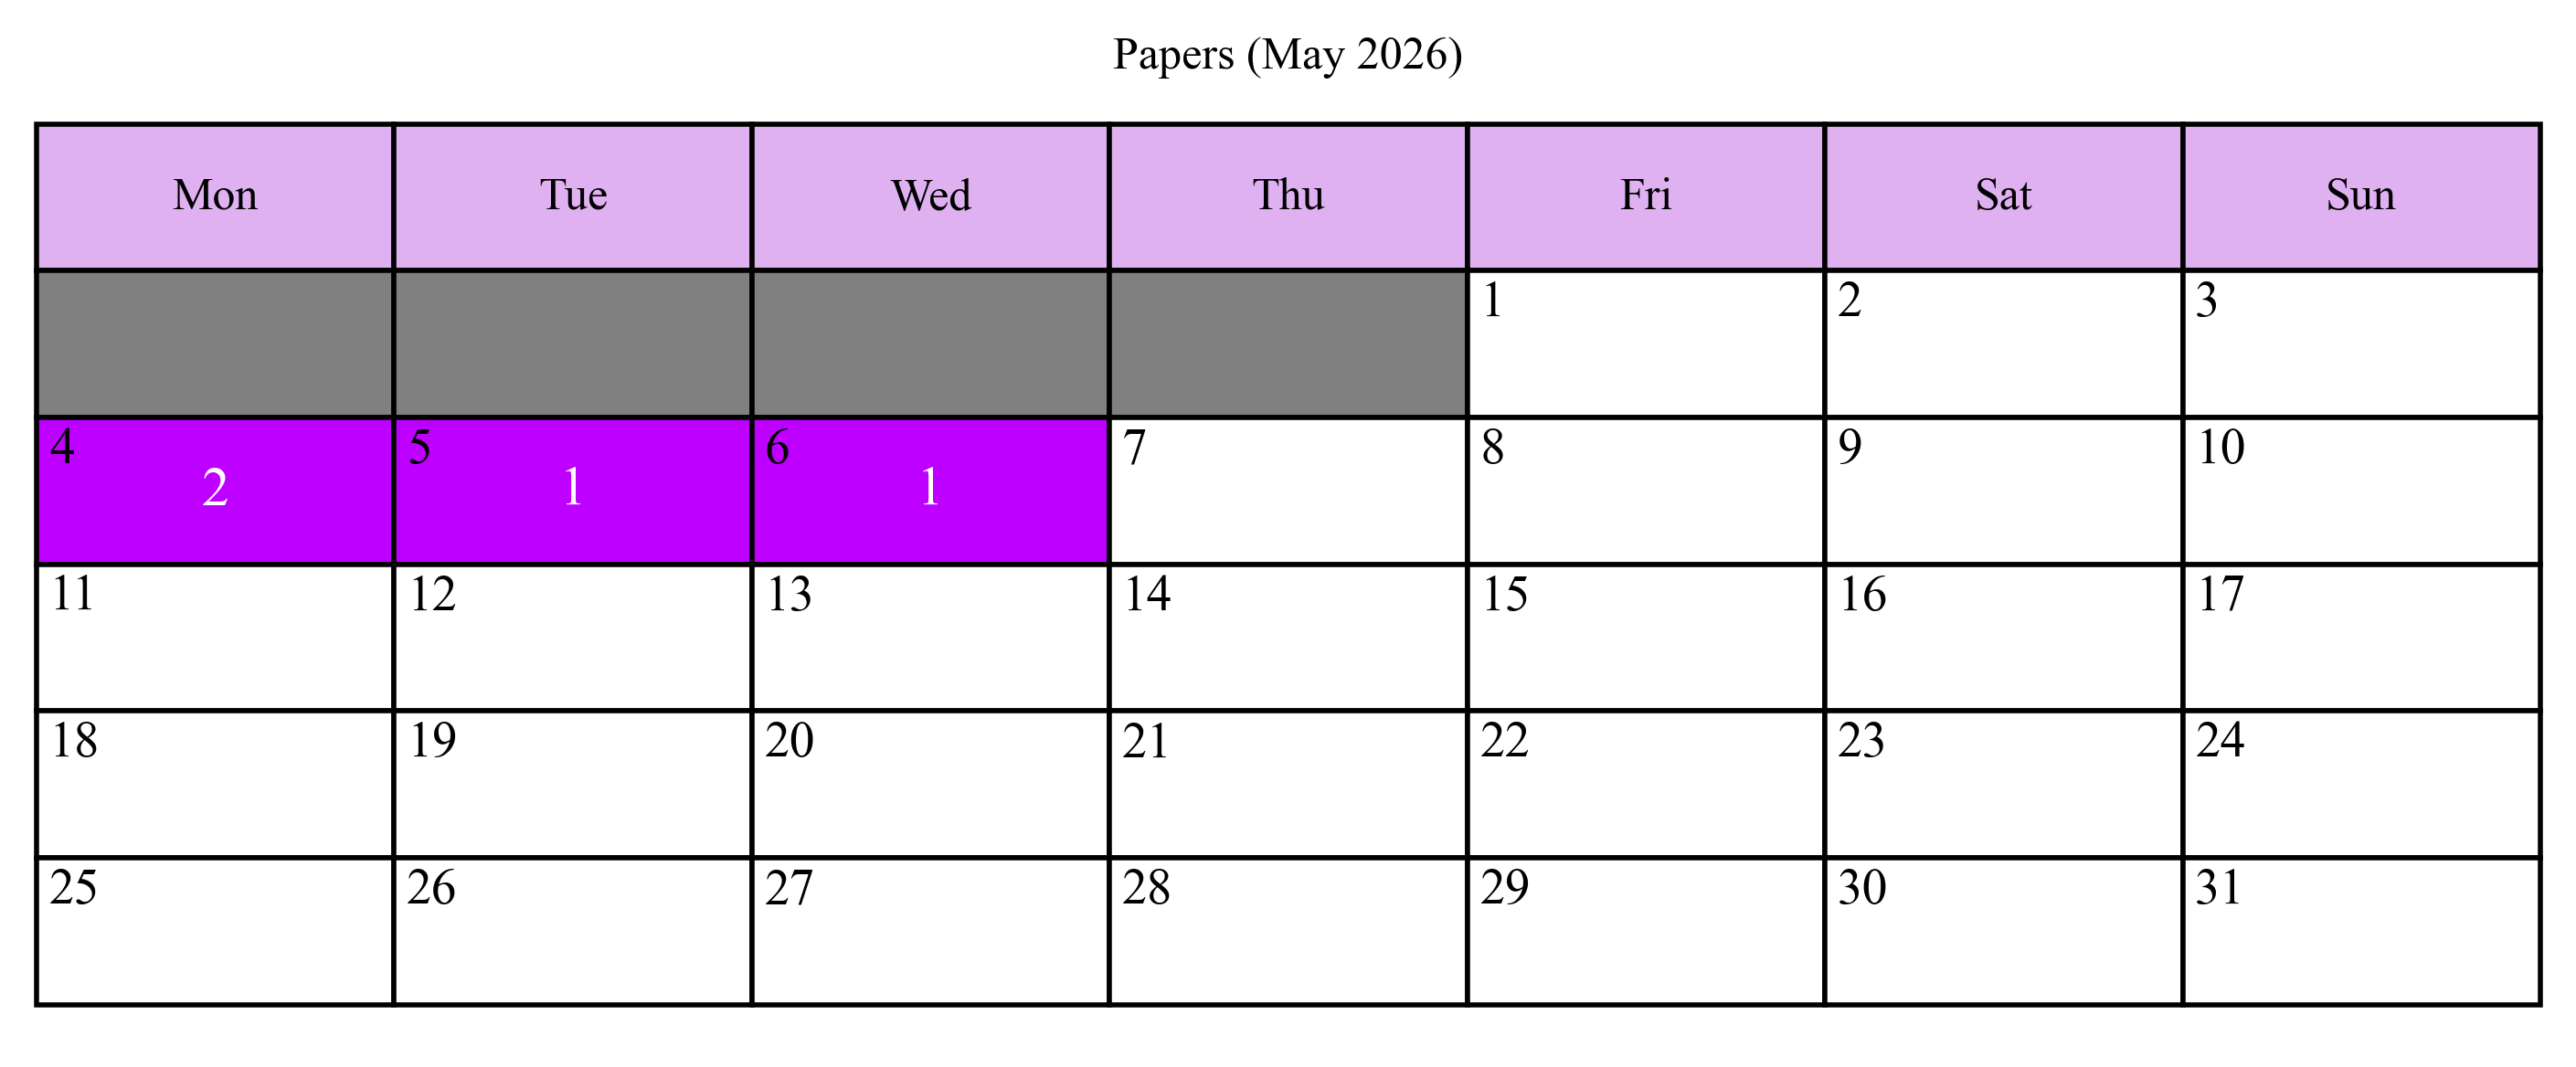
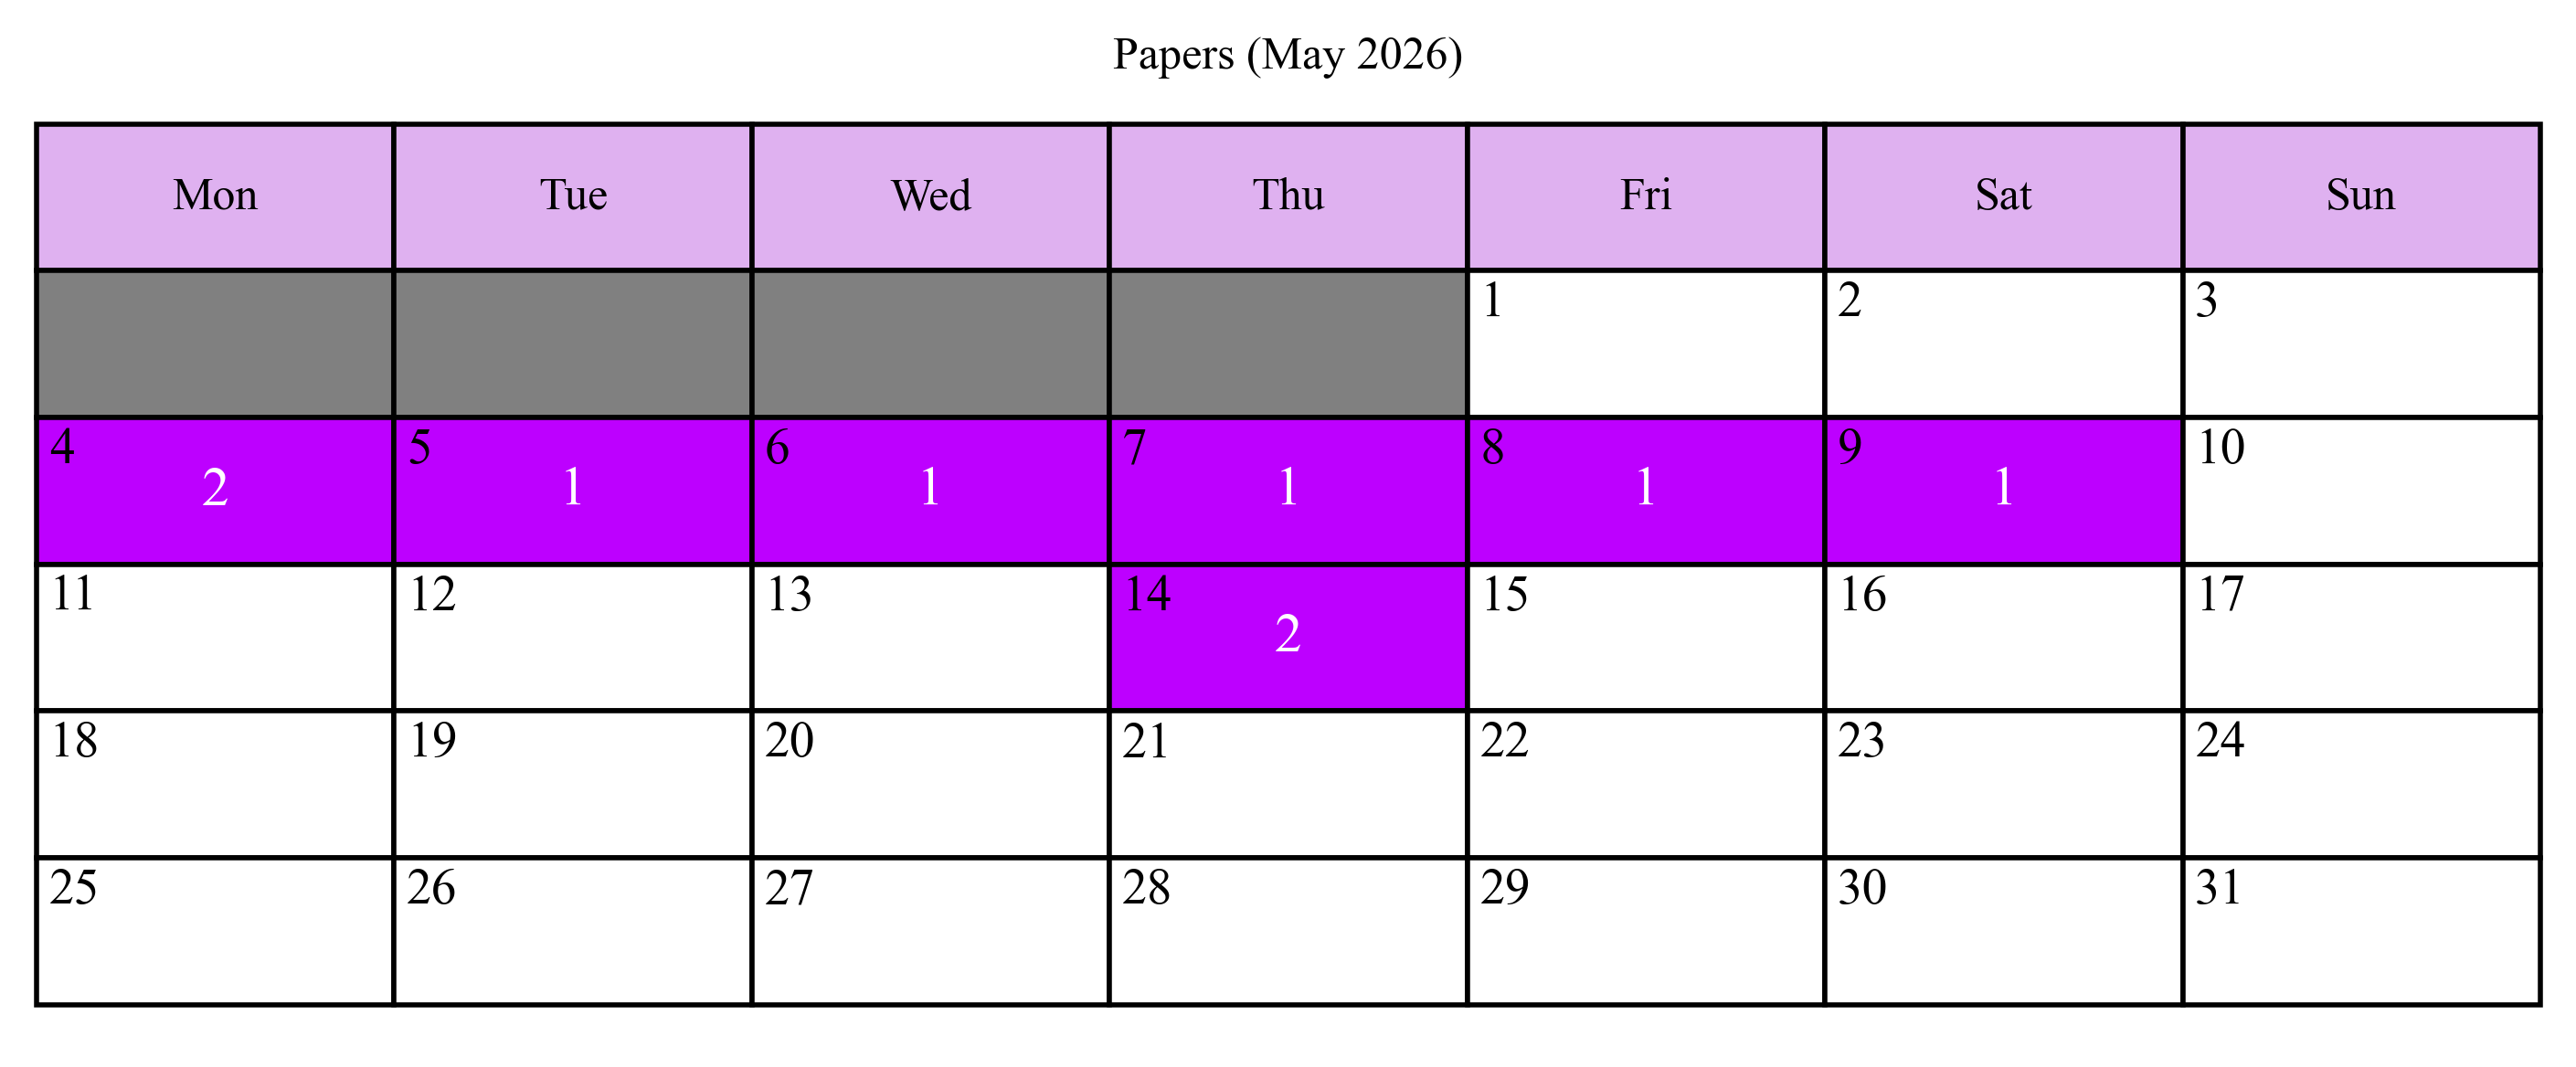
(Automated) updated paper log: May 15, 2026

Changed region(s): [[0.4058, 0.3699, 0.8741, 0.6781]]

diff --git a/papers/index.html b/papers/index.html
@@ -29,11 +29,16 @@
       <div class="main-content">
         <div class="main-section">
           <!-- <summary_text> -->
-<p>This is where I log the papers I've read this year. My goal for 2026 is to read 300 papers. By the time this document was last updated (<b>May 07, 2026</b>), I have read <b>42 papers</b> this year. I should have read <b>104 papers</b> by this time, meaning I am <b>62 papers behind schedule</b>.</p>
+<p>This is where I log the papers I've read this year. My goal for 2026 is to read 300 papers. By the time this document was last updated (<b>May 15, 2026</b>), I have read <b>51 papers</b> this year. I should have read <b>110 papers</b> by this time, meaning I am <b>59 papers behind schedule</b>.</p>
           <!-- </summary_text> -->
           <p><img src="cal.png" style="width: 100%;" alt="A monthly calendar depicting the following tabular data graphically."></p>
           <!-- <paper_table> -->
 <table>
+  <tr><td>5/14/26</td><td>CUCo: An Agentic Framework for Compute and Communication Co-design</td><td><a href="https://arxiv.org/pdf/2603.02376" target="_parent">Link</a></td><td>UT Austin, arXiv, 2026</td></tr>
+  <tr><td>5/14/26</td><td>Mirage Persistent Kernel: A Compiler and Runtime for Mega-Kernelizing Tensor Programs</td><td><a href="https://www.usenix.org/conference/osdi25/presentation/wu-mengdi" target="_parent">Link</a></td><td>Carnegie Mellon, OSDI, 2025</td></tr>
+  <tr><td>5/9/26</td><td>Taming Throughput-Latency Tradeoff in LLM Inference with Sarathi-Serve</td><td><a href="https://arxiv.org/pdf/2403.02310" target="_parent">Link</a></td><td>Georgia Tech/Microsoft, OSDI, 2024</td></tr>
+  <tr><td>5/8/26</td><td>MegaTrain: Full Precision Training of 100B+ Parameter Large Language Models on a Single GPU</td><td><a href="https://arxiv.org/pdf/2604.05091" target="_parent">Link</a></td><td>U. of Notre Dame, arXiv, 2026</td></tr>
+  <tr><td>5/7/26</td><td>FlexGen: High-Throughput Generative Inference of Large Language Models with a Single GPU</td><td><a href="https://arxiv.org/abs/2303.06865" target="_parent">Link</a></td><td>Stanford, ICML, 2023</td></tr>
   <tr><td>5/6/26</td><td>H2O: Heavy-Hitter Oracle for Efficient Generative Inference of Large Language Models</td><td><a href="https://proceedings.neurips.cc/paper_files/paper/2023/file/6ceefa7b15572587b78ecfcebb2827f8-Paper-Conference.pdf" target="_parent">Link</a></td><td>UT Austin/Carnegie Mellon, NeurIPS, 2023</td></tr>
   <tr><td>5/5/26</td><td>Efficient Memory Management for Large Language Model Serving with PagedAttention</td><td><a href="https://dl.acm.org/doi/10.1145/3600006.3613165" target="_parent">Link</a></td><td>UC Berkeley, SOSP, 2023</td></tr>
   <tr><td>5/4/26</td><td>Orca, A Distributed Serving System for Transformer-Based Generative Models</td><td><a href="https://www.usenix.org/system/files/osdi22-yu.pdf" target="_parent">Link</a></td><td>Seoul National University, OSDI, 2022</td></tr>
@@ -81,7 +86,7 @@
       <!-- <last_updated_text> --> 
 <div class="last-updated">
   <p class="last-updated-text">
-    Last updated: May 07, 2026 at 14:59 UTC.
+    Last updated: May 15, 2026 at 14:05 UTC.
   </p>
 </div>
 